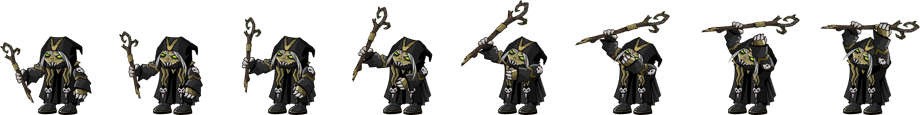
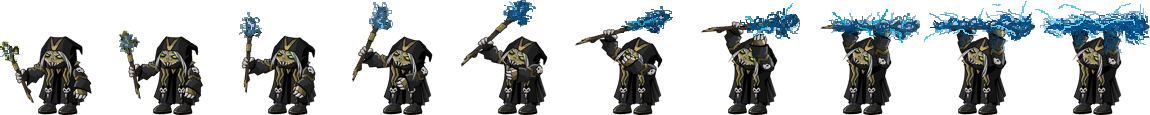
necromancer update animation - added magic

diff --git a/src/gameApp/monsters/Necromancer.ts b/src/gameApp/monsters/Necromancer.ts
@@ -85,7 +85,7 @@ export class Necromancer extends Monster{
 
 		this._attackXStart = 0;
 		this._charges = [];
-		this.specialAbilityAcidRainCallAnimation = new Animation(8, 800, Necromancer.specialAbilityAcidRainCallImage);
+		this.specialAbilityAcidRainCallAnimation = new Animation(10, 800, Necromancer.specialAbilityAcidRainCallImage);
 		this._isSpecialAbilityAcidRainCallStarted  = false;
 		this.probabilitySpecialAbilityAcidRainPercentage = Necromancer.probabilitySpecialAbilityAcidRainPercentage;
 
